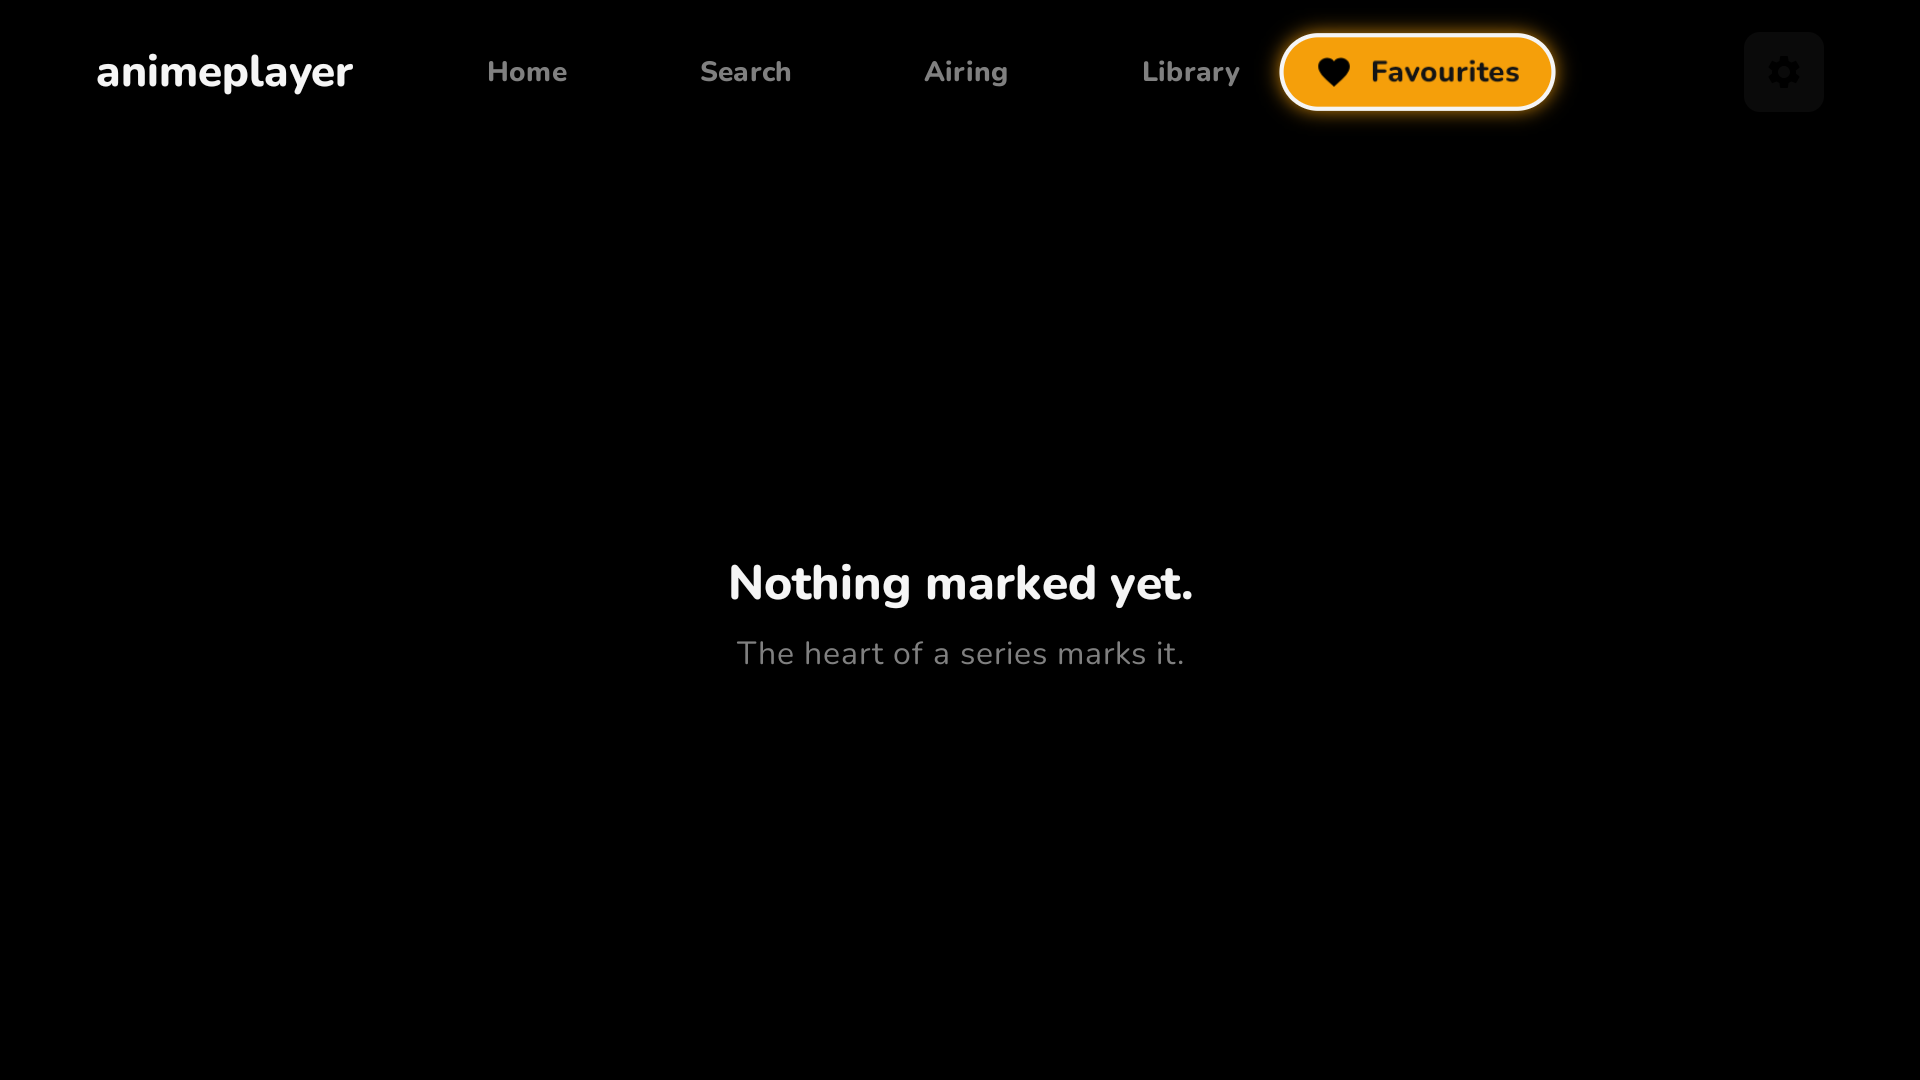
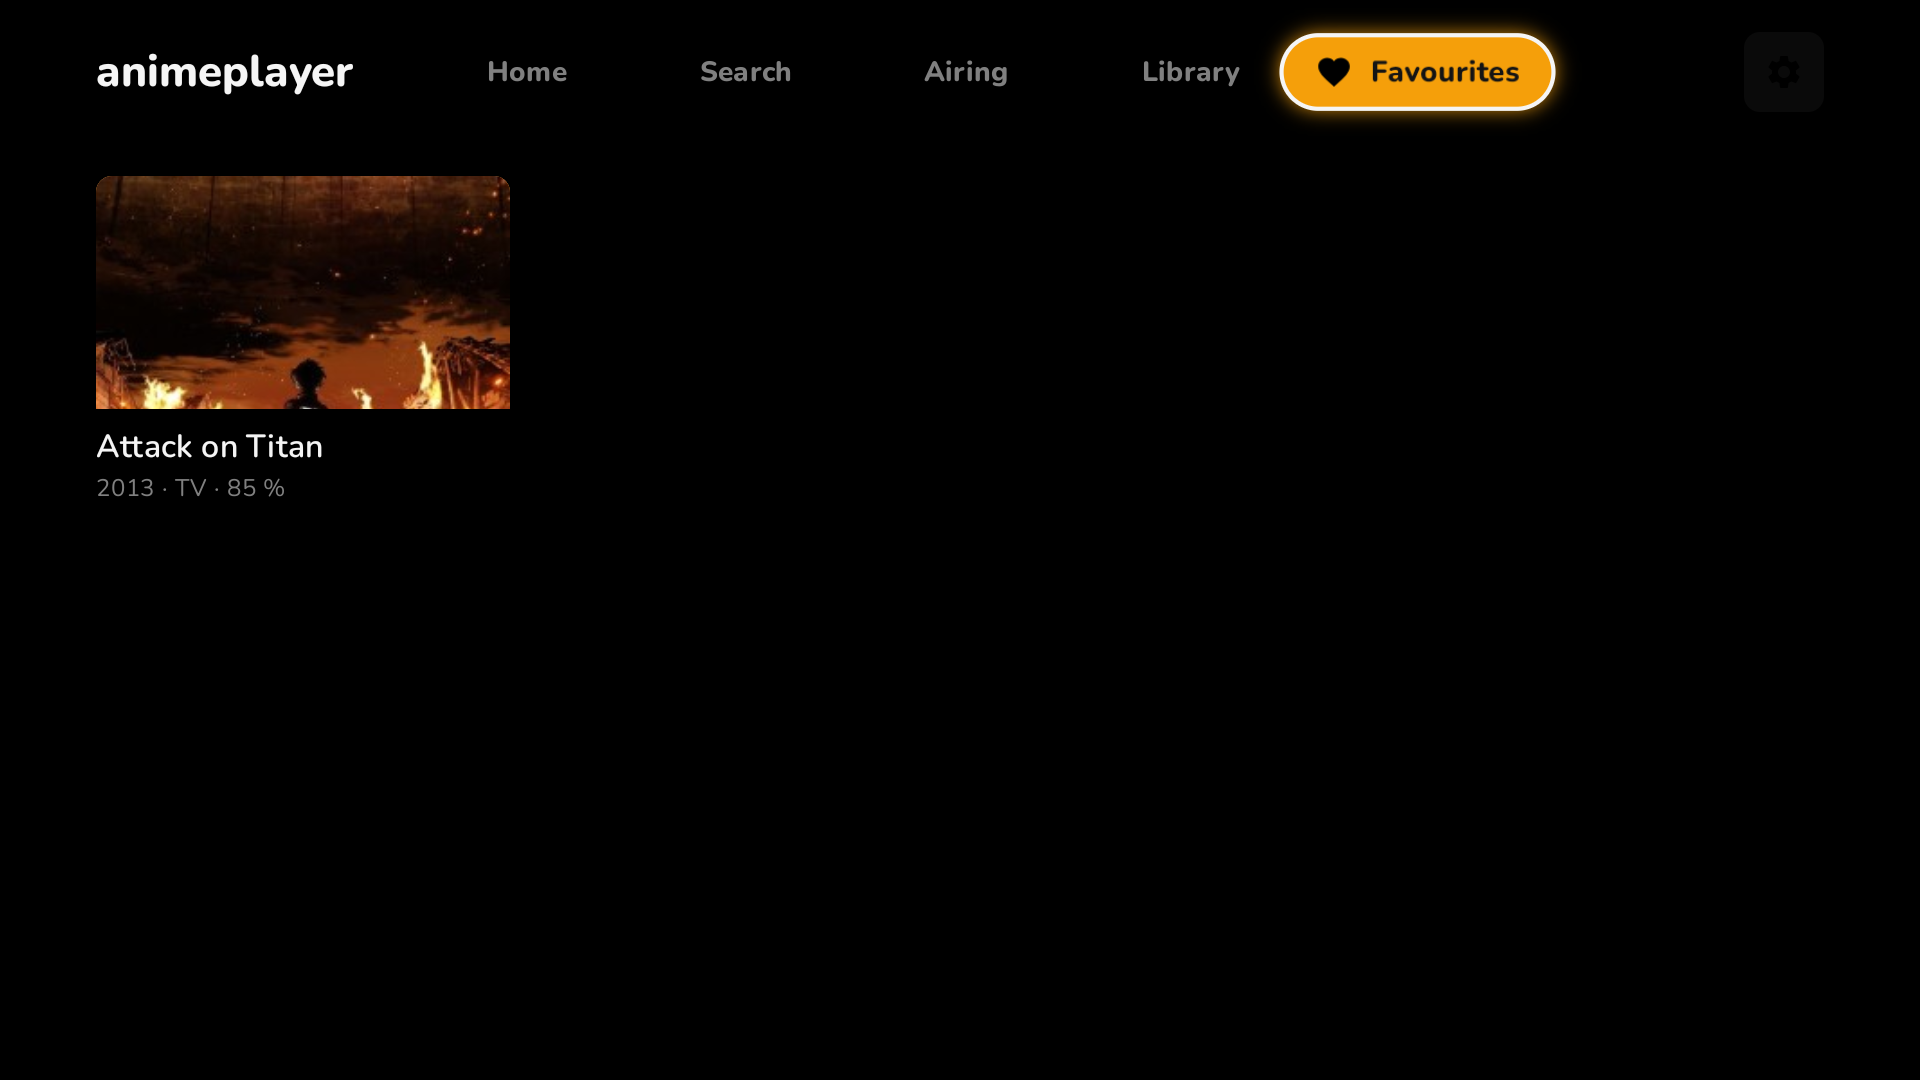
Fix the flaky cache test and polish the television library screen
The cache test raced a one millisecond time to live against the wall
clock while the test itself runs on the virtual clock, so it expired
only when the machine was slow enough. The cache already accepts a
clock, so the test now uses one it controls.

The "continue watching" row of the library screen had no artwork,
because the history does not carry it. The poster is now asked of the
library, which knows it.

The screenshots of the running application are refreshed.

Changed region(s): [[0.0312, 0.1528, 0.2812, 0.4583], [0.375, 0.5194, 0.625, 0.6111]]

diff --git a/samples/android-tv/src/main/kotlin/dev/animeplayer/tv/ui/library/LibraryScreen.kt b/samples/android-tv/src/main/kotlin/dev/animeplayer/tv/ui/library/LibraryScreen.kt
@@ -79,6 +79,15 @@ public fun LibraryScreen(
                         durationMs = it.durationMs,
                     )
                 }
+                // The artwork of an episode is not in the history, so it is asked of the
+                // library — the rows of the history are few.
+                history = history.map { row ->
+                    row.copy(
+                        poster = runCatching {
+                            container.library.anime(row.slug).posterUrl
+                        }.getOrNull(),
+                    )
+                }
             }
     }
 
@@ -138,7 +147,7 @@ public fun LibraryScreen(
                         items(history, key = { it.slug + it.episode }) { row ->
                             TvCard(
                                 title = row.title,
-                                artwork = null,
+                                artwork = row.poster,
                                 tint = MaterialTheme.colorScheme.surfaceVariant,
                                 metadata = "Episode ${row.episode} · ${formatTime(row.positionMs)}",
                                 progress = row.progress,
@@ -202,6 +211,7 @@ public data class HistoryRow(
     val progress: Float,
     val positionMs: Long,
     val durationMs: Long,
+    val poster: String? = null,
 )
 
 /** `12:04` */

diff --git a/network/src/jvmTest/kotlin/dev/animeplayer/network/NetworkTest.kt b/network/src/jvmTest/kotlin/dev/animeplayer/network/NetworkTest.kt
@@ -16,8 +16,10 @@ import kotlin.test.assertEquals
 import kotlin.test.assertFalse
 import kotlin.test.assertNull
 import kotlin.test.assertTrue
+import kotlin.time.Clock
 import kotlin.time.Duration.Companion.milliseconds
 import kotlin.time.Duration.Companion.seconds
+import kotlin.time.Instant
 
 class TtlCacheTest {
 
@@ -30,9 +32,12 @@ class TtlCacheTest {
 
     @Test
     fun expiresEntries() = runTest {
-        val cache = TtlCache()
+        // The cache reads the system clock, and the virtual time of the test does not
+        // move it, so the clock is replaced by one the test controls.
+        val clock = FakeClock(Instant.fromEpochMilliseconds(0))
+        val cache = TtlCache(clock = clock)
         cache.put("key", "value".encodeToByteArray(), 1.milliseconds)
-        kotlinx.coroutines.delay(20)
+        clock.now = clock.now + 20.milliseconds
         assertNull(cache.get("key"))
     }
 
@@ -102,4 +107,9 @@ class CloudflareChallengeDetectorTest {
     fun ignoresTheMarkerInASuccessfulResponse() {
         assertFalse(CloudflareChallengeDetector.isChallenge(200, "<p>Just a moment</p>"))
     }
+}
+
+/** A clock the test moves by hand. */
+private class FakeClock(var now: Instant) : Clock {
+    override fun now(): Instant = now
 }
